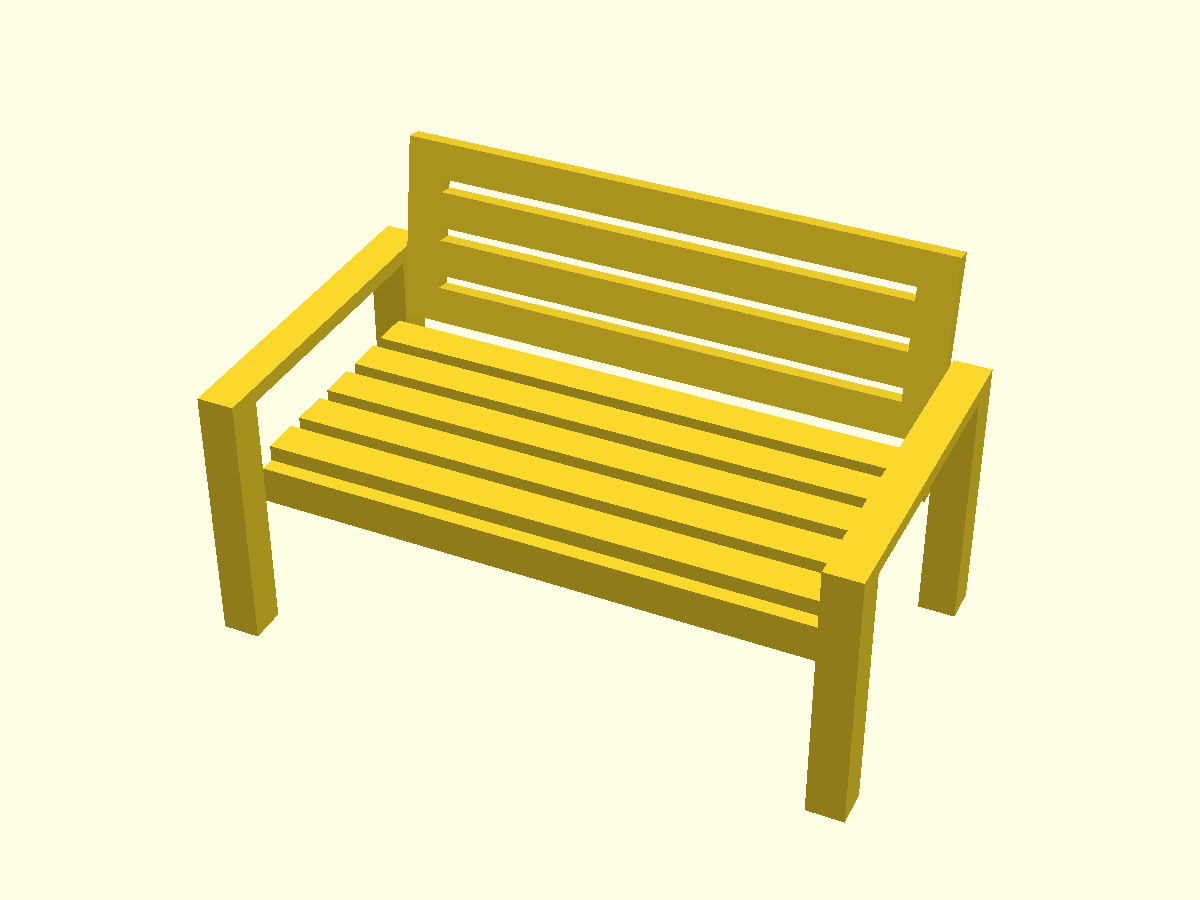
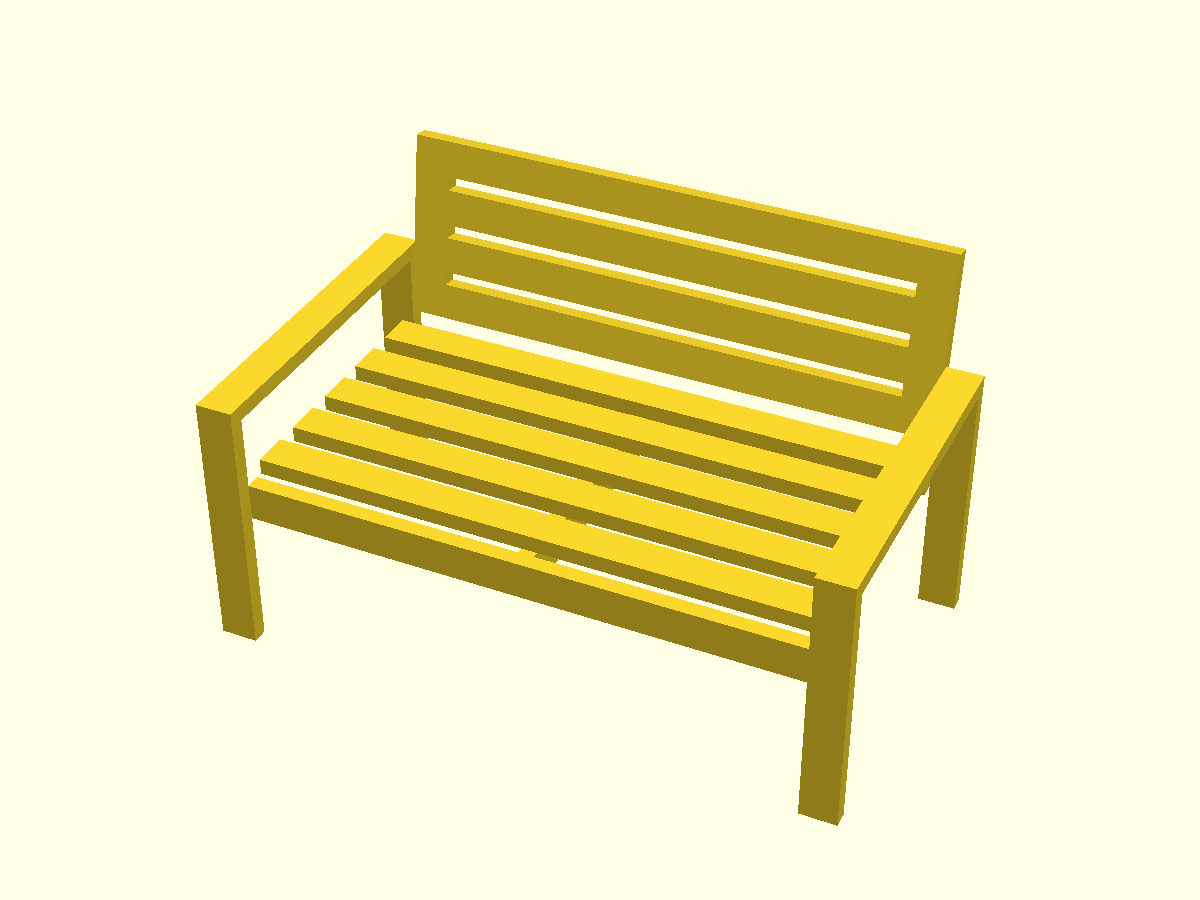
Switch side frame legs from 4×4 to 2×4 in patio sofa
Legs now 3.5" wide × 1.5" deep (board_w × board_t) instead of 3.5" square.
inner_d widens from 26" to 30", back_y shifts to 31.5". All-2×4 build.

Changed region(s): [[0.1542, 0.1244, 0.8325, 0.9333], [0.7708, 0.6533, 0.8017, 0.6844]]

diff --git a/patio-sofa/PROJECT.md b/patio-sofa/PROJECT.md
@@ -1,13 +1,13 @@
 # Patio Sofa (Loveseat)
 
-Wooden loveseat for a covered patio. Two ∩-shaped side frames (4×4 legs + 2×4 arm), slatted seat, and a framed rectangular back panel angled 8° for comfort.
+Wooden loveseat for a covered patio. Two ∩-shaped side frames (2×4 legs + 2×4 arm), slatted seat, and a framed rectangular back panel angled 8° for comfort.
 
 ## Dimensions
 
 | Property | Value |
 |----------|-------|
 | Width | 60" |
-| Depth | 33" (seat area; back extends ~3" beyond) |
+| Depth | 33" |
 | Seat height | 18" |
 | Arm height | 25" |
 | Back height | 36" (vertical) |
@@ -15,7 +15,7 @@ Wooden loveseat for a covered patio. Two ∩-shaped side frames (4×4 legs + 2×
 
 ## Design
 
-- **Side frames**: ∩-shaped — two 4×4 legs connected across the top by a 2×4 arm
+- **Side frames**: ∩-shaped — two 2×4 legs (3.5" face outward, 1.5" deep) connected across the top by a 2×4 arm
 - **Seat**: 5 horizontal 2×4 slats spanning the full 53" inner width, supported by front/rear cross rails and a center support
 - **Back**: framed rectangle (2×4 stiles, rails, slats) pivoting at seat height and leaning 8° backward
 
@@ -23,19 +23,17 @@ Wooden loveseat for a covered patio. Two ∩-shaped side frames (4×4 legs + 2×
 
 | Part | Material | Qty | Length |
 |------|----------|-----|--------|
-| Side frame legs | 4×4 | 4 | 23.5" |
+| Side frame legs | 2×4 | 4 | 23.5" |
 | Arms (U-frame top) | 2×4 | 2 | 33" |
 | Front cross rail | 2×4 | 1 | 53" |
 | Rear cross rail | 2×4 | 1 | 53" |
-| Center support | 2×4 | 1 | 26" |
+| Center support | 2×4 | 1 | 30" |
 | Seat slats | 2×4 | 5 | 53" |
 | Back stiles (L+R) | 2×4 | 2 | 18" |
 | Back rails (top+bot) | 2×4 | 2 | 46" |
 | Back slats | 2×4 | 2 | 46" |
 
-**4×4 total:** 4 @ 23.5"
-
-**2×4 total:** 2 @ 33" + 3 @ 53" + 5 @ 53" + 2 @ 18" + 4 @ 46" + 1 @ 26"
+**2×4 total:** 4 @ 23.5" + 2 @ 33" + 2 @ 53" + 5 @ 53" + 2 @ 18" + 4 @ 46" + 1 @ 30"
 
 ## Notes
 
